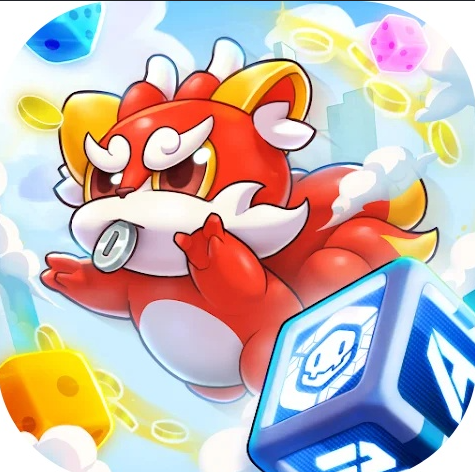
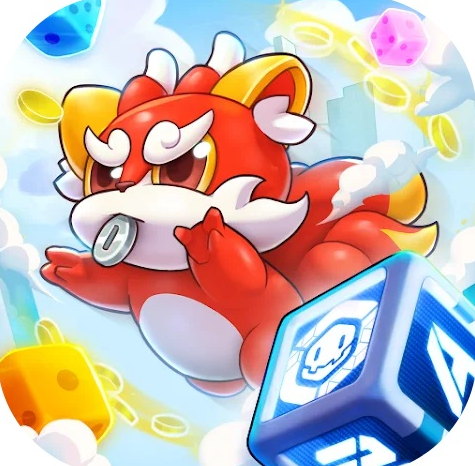
update copyright. update detail in dicemon tactic

diff --git a/dicemontactic.html b/dicemontactic.html
@@ -28,6 +28,7 @@
             width: 70%;
             margin: auto;
         }
+
         #videoCarousel .carousel-control {
             bottom: 15%;
         }
@@ -82,7 +83,8 @@
         <header>
             <div class="container" id="maincontent" tabindex="-1" style="padding-bottom: 0px">
                 <div class="row">
-                    <img src="img/gendice/banner.png" class="img-responsive img-rounded center-block" alt="Dicemon Tactic">
+                    <img src="img/gendice/banner.png" class="img-responsive img-rounded center-block"
+                        alt="Dicemon Tactic">
                 </div>
                 <div class="row">
                     <div class="col-sm-3" style="border: 1px solid #e1e8ed;">
@@ -107,7 +109,8 @@
                                 <div class="row col-sm-12">
                                     <p style="text-align: left;font-size: 16px;">
                                         &nbsp;&nbsp;&nbsp;&nbsp;&nbsp;&nbsp;&nbsp;&nbsp;&nbsp;&nbsp; Dicemon Tactic is a
-                                        real-time online strategy board game.
+                                        multiplayer Monopoly-style strategy game where players roll dice, buy and own
+                                        buildings, and use Dicemon skills to control the board.
                                         <br>
                                     </p>
                                 </div>
@@ -121,8 +124,10 @@
                                 </h2>
                                 <p style="text-align: left;font-size: 16px;">
                                     &nbsp;&nbsp;&nbsp;&nbsp;&nbsp;&nbsp;&nbsp;&nbsp;&nbsp;&nbsp;
-                                    Developed core in-game systems, including the gameplay loop, minigame framework, and skill system.
-                                    Implemented out-game systems such as asset bundle management and UI navigation flows for the
+                                    Developed core in-game systems, including the gameplay loop, minigame framework, and
+                                    skill system.
+                                    Implemented out-game systems such as asset bundle management and UI navigation flows
+                                    for the
                                     Main Menu, Shop, Leaderboard, and other features.<br>
                                 </p>
                             </div>
@@ -197,47 +202,24 @@
         <div class="container">
             <div class="row">
                 <div class="col-lg-12 text-center">
-                    <h2 style="font-size:2.0em; margin:1.5em; text-align: left;">Screenshot</h2>
+                    <h2 style="font-size:2.0em; margin:1.5em; text-align: left;">Skill Graph</h2>
                     <hr class="style14">
                 </div>
             </div>
             <div class="row">
-                <div class="col-sm-1">
+                <div class="row col-sm-12">
+                    <p style="text-align: left;font-size: 16px;">
+                        &emsp; The skill graph is implemented using XNode, a ScriptableObject-based NodeGraph system. I
+                        designed it to make Dicemon skills easier to create and maintain using Unity Addressables, while
+                        also making it easier to manage command-flow execution between the dedicated server and game
+                        client.
+                        <br>
+                    </p>
                 </div>
-                <div class="col-sm-10">
-                    <div id="myCarousel" class="carousel slide" data-ride="carousel">
-                        <!-- Indicators -->
-                        <ol class="carousel-indicators" style="z-index: 3">
-                            <li data-target="#myCarousel" data-slide-to="0" class="active"></li>
-                            <li data-target="#myCarousel" data-slide-to="1"></li>
-                        </ol>
-
-                        <!-- Wrapper for slides -->
-                        <div class="carousel-inner" role="listbox">
-                            <div class="item active">
-                                <img src="img/gendice/thumbnail.png" class="img-responsive img-rounded center-block"
-                                    alt="Dicemon Tactic Shop" style="width: 70%;">
-                            </div>
-                            <div class="item">
-                                <img src="img/gendice/skill-graph.png" class="img-responsive img-rounded center-block"
-                                    alt="Dicemon Tactic Skill Graph" style="width: 70%;">
-                            </div>
-                        </div>
-
-                        <!-- Left and right controls -->
-                        <a class="left carousel-control" href="#myCarousel" role="button" data-slide="prev">
-                            <span class="icon-prev" aria-hidden="true"></span>
-                            <span class="sr-only">Previous</span>
-                        </a>
-                        <a class="right carousel-control" href="#myCarousel" role="button" data-slide="next">
-                            <span class="icon-next" aria-hidden="true"></span>
-                            <span class="sr-only">Next</span>
-                        </a>
-                    </div>
-                </div>
-                <div class="col-sm-1">
-                </div>
+                <img src="img/gendice/skill-graph.png" class="img-responsive img-rounded center-block"
+                    alt="Dicemon Tactic Skill Graph" style="width: 100%;">
             </div>
+        </div>
         </div>
     </section>
     <hr>
@@ -247,7 +229,7 @@
             <div class="container">
                 <div class="row">
                     <div class="col-lg-12">
-                        Copyright &copy; Chinnawat Sirima 2019
+                        Copyright &copy; Chinnawat Sirima 2026
                     </div>
                 </div>
             </div>

diff --git a/index.html b/index.html
@@ -447,7 +447,7 @@
             <div class="row" style="margin:0.5em 0;">
                 <div class="col-sm-6 col-md-4">
                     <a class="project-card" href="dicemontactic.html">
-                        <img class="project-card-img" src="img/gendice/thumbnail.png" alt="Dicemon Tactic">
+                        <img class="project-card-img" src="img/gendice/index-thumbnail.png" alt="Dicemon Tactic">
                         <div class="project-card-body">
                             <span class="project-status status-alpha">Alpha Test</span>
                             <h4 class="project-card-title">Dicemon Tactic</h4>
@@ -617,13 +617,13 @@
             </div>
             <div class="row" style="margin:0.5em 0;">
                 <div class="col-sm-6 col-md-4">
-                    <div class="project-card" style="cursor:default;">
+                    <a class="project-card" href="./img/NSC_NinjaKen_FinalReview.pdf" target="_blank" rel="noopener noreferrer">
                         <div class="project-card-noimg">Ninjaken</div>
                         <div class="project-card-body">
                             <h4 class="project-card-title">Ninjaken</h4>
                             <p class="project-card-desc">National Software Contest finalist (2016).</p>
                         </div>
-                    </div>
+                    </a>
                 </div>
             </div>
         </div>

diff --git a/evil-soul-skill-tools.html b/evil-soul-skill-tools.html
@@ -1,4 +1,4 @@
-<!DOCTYPE html>
+<!DOCTYPE html>
 <html lang="en">
 
 <head>
@@ -154,7 +154,7 @@
             <div class="container">
                 <div class="row">
                     <div class="col-lg-12">
-                        Copyright &copy; Chinnawat Sirima 2017
+                        Copyright &copy; Chinnawat Sirima 2026
                     </div>
                 </div>
             </div>

diff --git a/athenion.html b/athenion.html
@@ -247,7 +247,7 @@
             <div class="container">
                 <div class="row">
                     <div class="col-lg-12">
-                        Copyright &copy; Chinnawat Sirima 2017
+                        Copyright &copy; Chinnawat Sirima 2026
                     </div>
                 </div>
             </div>

diff --git a/athenion_ability_editor_tools.html b/athenion_ability_editor_tools.html
@@ -161,7 +161,7 @@
             <div class="container">
                 <div class="row">
                     <div class="col-lg-12">
-                        Copyright &copy; Chinnawat Sirima 2017
+                        Copyright &copy; Chinnawat Sirima 2026
                     </div>
                 </div>
             </div>

diff --git a/blender3d.html b/blender3d.html
@@ -186,7 +186,7 @@
             <div class="container">
                 <div class="row">
                     <div class="col-lg-12">
-                        Copyright &copy; Chinnawat Sirima 2017
+                        Copyright &copy; Chinnawat Sirima 2026
                     </div>
                 </div>
             </div>

diff --git a/bountybraw.html b/bountybraw.html
@@ -205,7 +205,7 @@
             <div class="container">
                 <div class="row">
                     <div class="col-lg-12">
-                        Copyright &copy; Chinnawat Sirima 2019
+                        Copyright &copy; Chinnawat Sirima 2026
                     </div>
                 </div>
             </div>

diff --git a/colosseum.html b/colosseum.html
@@ -227,7 +227,7 @@
             <div class="container">
                 <div class="row">
                     <div class="col-lg-12">
-                        Copyright &copy; Chinnawat Sirima 2017
+                        Copyright &copy; Chinnawat Sirima 2026
                     </div>
                 </div>
             </div>

diff --git a/dexel.html b/dexel.html
@@ -223,7 +223,7 @@
             <div class="container">
                 <div class="row">
                     <div class="col-lg-12">
-                        Copyright &copy; Chinnawat Sirima 2017
+                        Copyright &copy; Chinnawat Sirima 2026
                     </div>
                 </div>
             </div>

diff --git a/evilsoul.html b/evilsoul.html
@@ -255,7 +255,7 @@
             <div class="container">
                 <div class="row">
                     <div class="col-lg-12">
-                        Copyright &copy; Chinnawat Sirima 2017
+                        Copyright &copy; Chinnawat Sirima 2026
                     </div>
                 </div>
             </div>

diff --git a/leagueofbomb.html b/leagueofbomb.html
@@ -225,7 +225,7 @@
             <div class="container">
                 <div class="row">
                     <div class="col-lg-12">
-                        Copyright &copy; Chinnawat Sirima 2019
+                        Copyright &copy; Chinnawat Sirima 2026
                     </div>
                 </div>
             </div>

diff --git a/muse_battle_behavior_tree.html b/muse_battle_behavior_tree.html
@@ -156,7 +156,7 @@
             <div class="container">
                 <div class="row">
                     <div class="col-lg-12">
-                        Copyright &copy; Chinnawat Sirima 2017
+                        Copyright &copy; Chinnawat Sirima 2026
                     </div>
                 </div>
             </div>